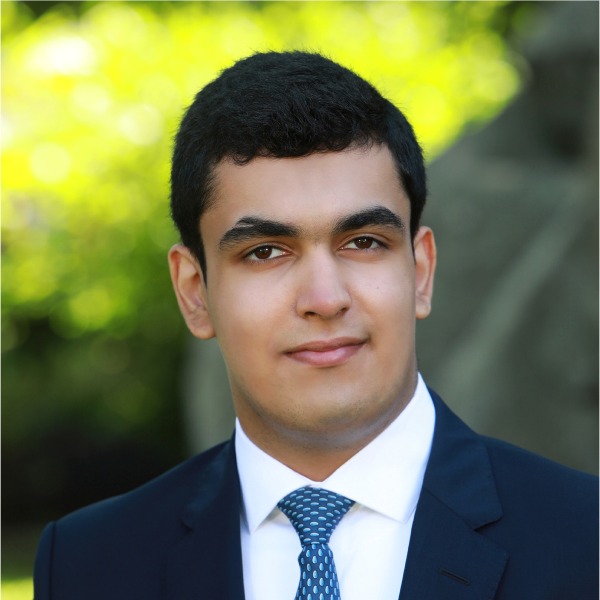
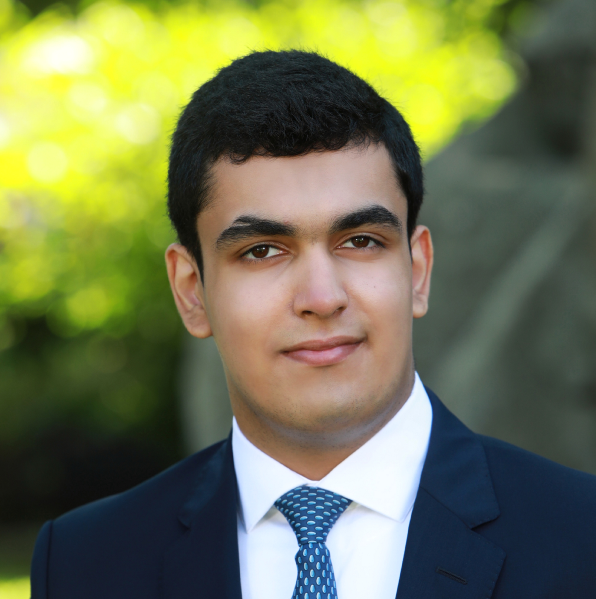
Update about me section,  improved styling for light and dark modes, minor fix to headshot

diff --git a/src/routes/+page.svelte b/src/routes/+page.svelte
@@ -51,7 +51,7 @@
         <div class="content-wrapper">
             <ol class="content">
                 <p class="about-me">
-                    Hello! I'm Nilay, a junior computer science student (technically I'm a senior by credits since I will gradute in December 2025) at Rensselaer Polytechnic Institute. I like to work on high-performate and scalable systems in any language but I'm most comfortable with C++, Python, and Go. I'm currently upgrading a custom CMS for The Polytechnic, RPI's student-run newspaper where I am have been the Editor in Chief since December 2024. 
+                    Hello! I'm Nilay, a junior computer science student (technically I'm a senior by credits since I will gradute in December 2025) at Rensselaer Polytechnic Institute. I like to work on high-performate and scalable systems in any language but I'm most comfortable with C++, Python, and Go. I'm currently upgrading a custom CMS for The Polytechnic, RPI's student-run newspaper where I have been the Editor in Chief since December 2024. 
                 </p>
             </ol>
         </div>
@@ -236,7 +236,7 @@
 		overflow: hidden;
 		display: inline-block;
 		vertical-align: middle;
-		border: 2px solid gray;
+        border: 4px solid #2f363f;
         object-fit: cover;
     }
 
@@ -292,7 +292,6 @@
     .experience-role {
         font-size: 16px;
         font-family: var(--font-serif2);
-        font-weight: bold;
         color: #d0d0d0;
         margin-bottom: 4px;
         padding: 0;
@@ -514,4 +513,32 @@
 			display: none;
 		} */
     }
+
+    @media (prefers-color-scheme: dark) {
+        /* .content-box {
+            border: 0.0625rem solid #444c56;
+        } */
+        .experience-role {
+            color: #d0d0d0;
+        }
+    }
+
+    @media (prefers-color-scheme: light) {
+        .cover-photo {
+            border: 4px solid #e0e0e0;
+        }
+        .content-item {
+            border: 0.0625rem solid #8D8D8D;
+        }
+        .about-me {
+            color: #22272e;
+        }
+        .content-description {
+            color: #22272e;
+        }
+        .experience-role {
+            color: #8D8D8D;
+        }
+    }
+
 </style>

diff --git a/src/routes/styles.css b/src/routes/styles.css
@@ -116,7 +116,7 @@ button:focus:not(:focus-visible) {
 
 @media (prefers-color-scheme: light) {
 	:root {
-		background-color: #fff;
+		background-color: #fafafa;
 		color: #22272e;
 	}
 }
